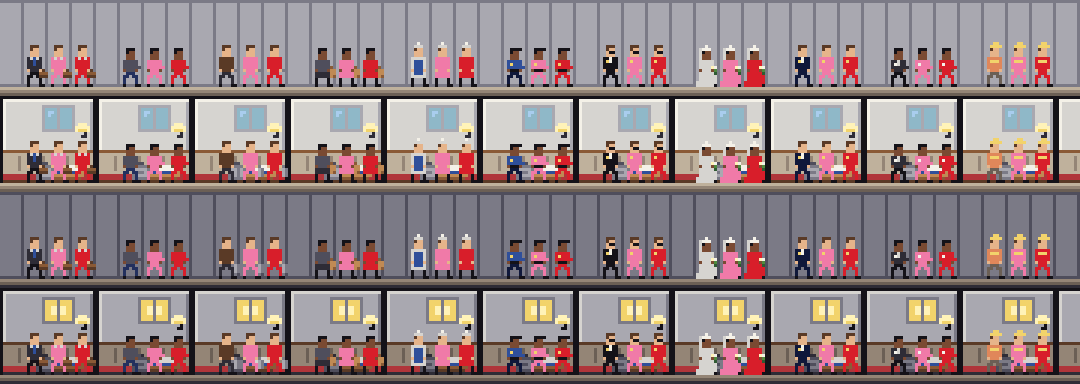
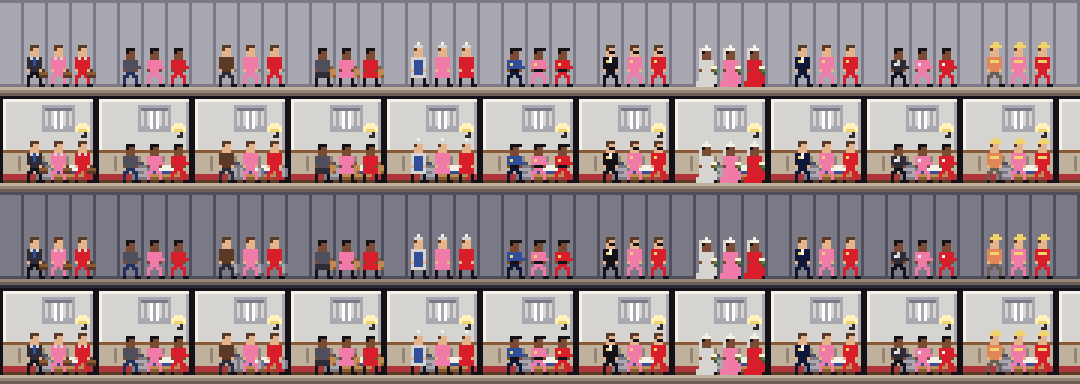
Fill the whole two-level frame when placing stairs

diff --git a/apps/web/src/render/ghostLayer.ts b/apps/web/src/render/ghostLayer.ts
@@ -20,7 +20,7 @@ export interface Footprint {
 }
 
 export interface GhostInput extends Footprint {
-  /** Levels the outline covers when it is taller than the sprite; only the drawing changes. */
+  /** Levels the ghost (fill and outline) covers when taller than the footprint; only the drawing changes. */
   frameFloors?: number;
   type: UnitType;
   valid: boolean;
@@ -83,7 +83,7 @@ export class GhostLayer {
     this.ghost = ghost;
     this.sprite.visible = ghost !== null;
     if (ghost !== null) {
-      const area = areaOf(ghost);
+      const area = areaOf({ ...ghost, floors: ghost.frameFloors ?? ghost.floors });
       this.sprite.texture = this.sprites.variant(`units/${ghost.type}`, {
         state: spriteState(ghost.type, false),
         time: ghost.time,
